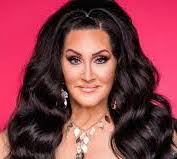
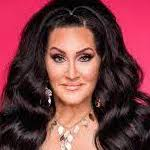
sizing of michelle images fixed

diff --git a/styles/main.css b/styles/main.css
@@ -31,7 +31,10 @@ button {
   font-size: bold;
   padding: 20px;
   margin: 20px;
+  border-radius: 5px;
+  color: white;
   background-image: url('../assets/workroom.img1.jpeg');
+  background-size: contain;
 }
 
 .grid-wrapper {
@@ -56,7 +59,7 @@ button {
   flex-grow: 1;
   height: 6.6%;
   width: 6.6%;
-  border: 1px dashed lightgrey;
+  border: 0.5px dashed rgb(171, 171, 171);
 }
 
 .grid div.rupaul {
